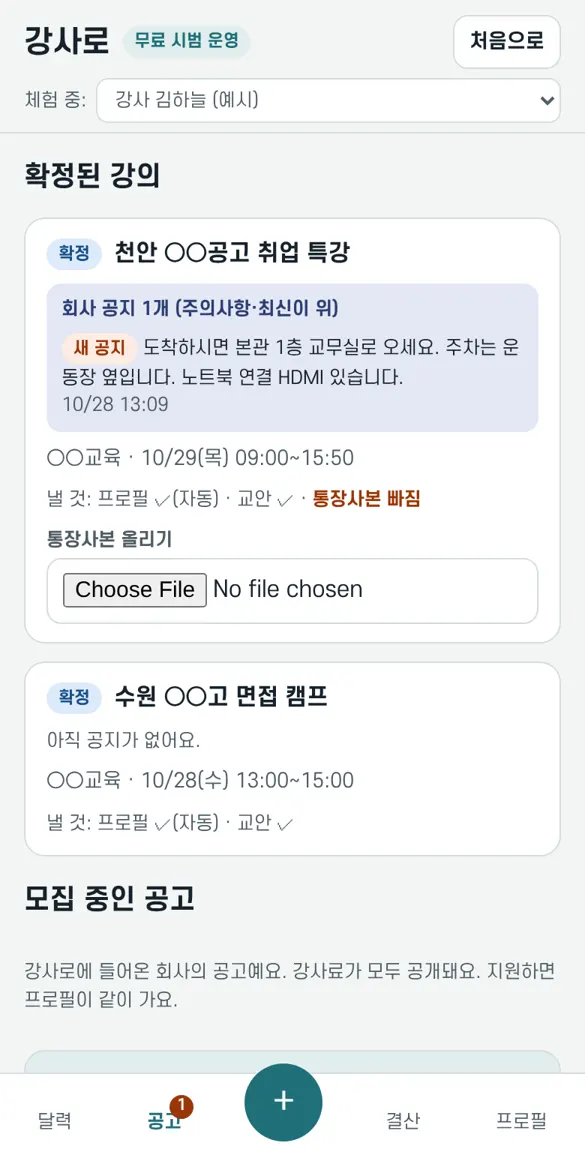
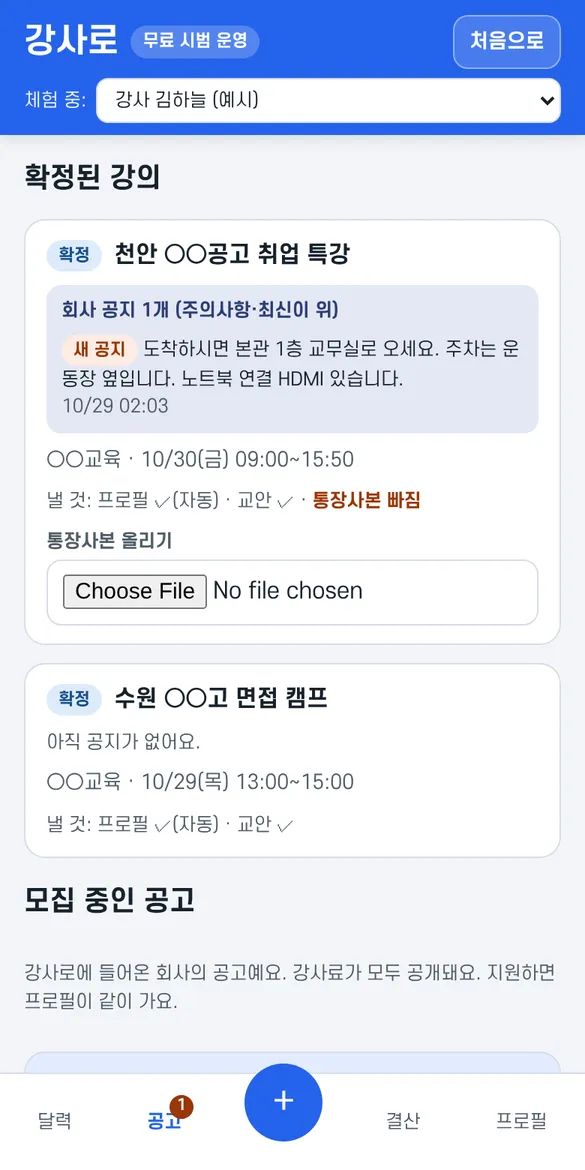
강사로: 대표색 파랑, 머리 부분 색 채우기, 상세페이지 새 첫 화면 (#88)
* 강사로: 대표색 주황(안), 머리 부분 대표색, 상세페이지 히어로·실제 화면·하단 고정 버튼

Claude-Session: https://claude.ai/code/session_018M85gFWJ3GPBYsgb4KDKGf

* 강사로: 대표색 파랑으로 (앱·상세페이지·설명서·아이콘·공유 이미지), 설명서 그림 새로 찍기

Claude-Session: https://claude.ai/code/session_018M85gFWJ3GPBYsgb4KDKGf

* 강사로: 실제 앱 다시 생성

Claude-Session: https://claude.ai/code/session_018M85gFWJ3GPBYsgb4KDKGf

---------

diff --git a/kangsaro/index.html b/kangsaro/index.html
@@ -17,8 +17,8 @@
 <style>
 /* 레이아웃: 강사 쪽(청록)과 회사 쪽(남색) 두 줄기가 '다리' 하나로 만나는 세로 흐름. 불편 → 해결 → 기능 → 반박 순서 */
 :root{
-  --bg:#F4F6F5; --surface:#FFFFFF; --fg:#15222A; --muted:#4D5B63; --line:#D6DEDC;
-  --teal:#1F6F78; --teal-soft:#E0EEEE; --navy:#2D3E73; --navy-soft:#E3E7F4;
+  --bg:#F3F5F9; --surface:#FFFFFF; --fg:#15222A; --muted:#4D5B63; --line:#D6DEDC;
+  --teal:#2563EB; --teal-soft:#E3ECFF; --hero:#2563EB; --hero2:#1E40AF; --navy:#2D3E73; --navy-soft:#E3E7F4;
   --gray-chip:#E3E7E9; --gray-fg:#3B4650; --blue-chip:#DCEBFA; --blue-fg:#1A4F8A;
   --purple-chip:#ECE2F7; --purple-fg:#5B3A8C; --green-chip:#DDF1E4; --green-fg:#1E6B3A;
   --warn:#9A3608; --warn-soft:#FDECE3;
@@ -27,17 +27,17 @@
 }
 @media (prefers-color-scheme: dark){:root:not([data-theme="light"]){
   --bg:#0F1719; --surface:#172225; --fg:#E7EEEE; --muted:#A3B2B5; --line:#2C3A3E;
-  --teal:#5FB7BF; --teal-soft:#183338; --navy:#9DAEE6; --navy-soft:#1E2640;
+  --teal:#6B9BFF; --teal-soft:#1A2747; --hero:#1D4ED8; --hero2:#1E3A8A; --navy:#9DAEE6; --navy-soft:#1E2640;
   --gray-chip:#2A3337; --gray-fg:#C9D2D6; --blue-chip:#1B2F47; --blue-fg:#9CC6F2;
   --purple-chip:#2E2540; --purple-fg:#CDB5EE; --green-chip:#173426; --green-fg:#94D9AE;
   --warn:#F2A57E; --warn-soft:#3A2116; color-scheme:dark}}
 :root[data-theme="dark"]{
   --bg:#0F1719; --surface:#172225; --fg:#E7EEEE; --muted:#A3B2B5; --line:#2C3A3E;
-  --teal:#5FB7BF; --teal-soft:#183338; --navy:#9DAEE6; --navy-soft:#1E2640;
+  --teal:#6B9BFF; --teal-soft:#1A2747; --hero:#1D4ED8; --hero2:#1E3A8A; --navy:#9DAEE6; --navy-soft:#1E2640;
   --gray-chip:#2A3337; --gray-fg:#C9D2D6; --blue-chip:#1B2F47; --blue-fg:#9CC6F2;
   --purple-chip:#2E2540; --purple-fg:#CDB5EE; --green-chip:#173426; --green-fg:#94D9AE;
   --warn:#F2A57E; --warn-soft:#3A2116; color-scheme:dark}
-body{background:var(--bg);color:var(--fg);font-family:var(--body);font-size:16px;line-height:1.7}
+body{margin:0;background:var(--bg);color:var(--fg);font-family:var(--body);font-size:16px;line-height:1.7}
 .wrap{max-width:720px;margin:0 auto;padding-left:max(16px,env(safe-area-inset-left,0px));padding-right:max(16px,env(safe-area-inset-right,0px));padding-block:32px 56px;display:flex;flex-direction:column;gap:56px}
 h1,h2,h3{text-wrap:balance;margin:0;word-break:keep-all}
 h1{font-family:var(--display);font-size:clamp(28px,7vw,40px);line-height:1.35}
@@ -50,7 +50,7 @@ section{display:flex;flex-direction:column;gap:18px}
 .lead{font-size:17px;color:var(--muted)}
 .btns{display:flex;flex-wrap:wrap;gap:10px}
 .btn{display:inline-flex;align-items:center;justify-content:center;min-height:52px;padding:0 22px;border-radius:14px;font-weight:700;font-size:16px;text-decoration:none;font-family:inherit;cursor:pointer}
-.btn.primary{background:var(--teal);color:var(--bg);border:0}
+.btn.primary{background:var(--teal);color:#fff;border:0;box-shadow:0 6px 16px rgba(37,99,235,.25)}
 .btn.ghost{background:transparent;color:var(--fg);border:1.5px solid var(--line)}
 .btn:focus-visible{outline:3px solid var(--navy);outline-offset:2px}
 .note{font-size:13px;color:var(--muted)}
@@ -97,17 +97,53 @@ summary:focus-visible{outline:2px solid var(--teal);outline-offset:2px;border-ra
 .price div{background:var(--surface);border:1px solid var(--line);border-radius:14px;padding:14px;display:flex;flex-direction:column;gap:4px}
 .price strong{font-size:20px;font-variant-numeric:tabular-nums}
 .end{background:var(--surface);border:1px solid var(--line);border-radius:20px;padding:22px 18px;display:flex;flex-direction:column;gap:14px}
+/* 히어로: 대표색으로 꽉 채운 띠 + 실제 앱 화면 */
+.hero{background:linear-gradient(160deg,var(--hero),var(--hero2));color:#fff;padding:36px max(16px,env(safe-area-inset-left,0px)) 0;overflow:hidden}
+.hero .in{max-width:960px;margin:0 auto;display:grid;grid-template-columns:minmax(0,1.1fr) minmax(0,.9fr);gap:28px;align-items:end}
+@media (max-width:760px){.hero .in{grid-template-columns:1fr;gap:20px}}
+.hero .txt{display:flex;flex-direction:column;gap:16px;padding-bottom:36px}
+.hero .eyebrow{color:#DCE7FF}
+.hero h1{color:#fff;font-size:clamp(30px,7.5vw,46px);line-height:1.28}
+.hero h1 em{font-style:normal;background:#fff;color:var(--hero2);padding:0 8px;border-radius:8px;box-decoration-break:clone;-webkit-box-decoration-break:clone}
+.hero .lead{color:#EEF3FF;font-size:18px}
+.hero .btn.primary{background:#fff;color:var(--hero2);box-shadow:0 8px 20px rgba(0,0,0,.18)}
+.hero .btn.ghost{color:#fff;border-color:rgba(255,255,255,.6)}
+.hero .meta{display:flex;flex-wrap:wrap;gap:8px}
+.hero .meta span{font-size:13px;font-weight:700;background:rgba(255,255,255,.16);border:1px solid rgba(255,255,255,.35);padding:4px 12px;border-radius:99px}
+.phone{justify-self:center;width:min(300px,78vw);border-radius:34px 34px 0 0;border:8px solid #1A1A1A;border-bottom:0;background:#1A1A1A;box-shadow:0 20px 50px rgba(0,0,0,.35);overflow:hidden;aspect-ratio:390/600}
+.phone img{width:100%;display:block}
+.shot{border-radius:20px;border:1px solid var(--line);box-shadow:0 10px 28px rgba(0,0,0,.10);overflow:hidden;max-width:360px;width:100%;align-self:center;background:var(--surface)}
+.shot img{width:100%;display:block}
+.sticky{position:fixed;left:0;right:0;bottom:0;z-index:9;padding:10px max(16px,env(safe-area-inset-left,0px)) calc(10px + env(safe-area-inset-bottom,0px));background:color-mix(in srgb,var(--bg) 92%,transparent);backdrop-filter:blur(8px);border-top:1px solid var(--line);display:none}
+.sticky a{width:100%}
+@media (max-width:760px){.sticky{display:flex}body{padding-bottom:84px}}
+h2 .hl{color:var(--teal)}
 </style>
 
 </head>
 <body>
+<header class="hero">
+  <div class="in">
+    <div class="txt">
+      <span class="eyebrow">강사와 강의 업체를 잇는 앱 · 강사로</span>
+      <h1>강의 일정·강사료,<br>아직도 <em>카톡으로</em><br>확인하세요?</h1>
+      <p class="lead">공고 붙여 넣으면 달력에 쏙, 순수익과 미입금이 한눈에. 업체는 강사 확정·공지·서류·강사비까지 한 화면에서 끝나요.</p>
+      <div class="btns">
+        <a class="btn primary" href="app/">무료로 시작하기</a>
+        <a class="btn ghost" href="try/?as=inst">가입 없이 체험</a>
+      </div>
+      <div class="meta"><span>가입 1분</span><span>카드 등록 없음</span><span>지금 무료</span></div>
+    </div>
+    <div class="phone"><img src="shots/hero_cal.webp" alt="강사로 앱 달력 화면: 확정·미입금·입금 완료가 색으로 보임" width="390" height="780"></div>
+  </div>
+</header>
 <div class="wrap">
 
-  <!-- 히어로 -->
+  <!-- 강사 -->
   <section>
-    <span class="eyebrow t">강사와 강의 업체를 잇는 앱 · 강사로</span>
-    <h1>공고 찾고, 프로필 고치고, 강사료 기다리는 일. 이제 한곳에서 끝내세요.</h1>
-    <p class="lead">현장에서 강의하는 강사가 직접 겪은 불편에서 시작했습니다. 강사는 일정과 돈이 한눈에 보이고, 업체는 놓치는 일이 사라집니다.</p>
+    <span class="eyebrow t">강사님이라면</span>
+    <h2>강사님, <span class="hl">이런 불편</span> 있으셨죠?</h2>
+    <p class="lead">강사로 하나로 한 번에 해결됩니다.</p>
     <div class="card" aria-label="강의 카드 예시">
       <div class="chips"><span class="chip c-gray">지원</span><span class="chip c-blue">확정</span><span class="chip c-purple">미입금</span><span class="chip c-green">입금 완료</span></div>
       <h3>10월 28일 (수) 천안 ○○공고 취업 특강 <span class="chip c-blue">확정</span></h3>
@@ -119,18 +155,7 @@ summary:focus-visible{outline:2px solid var(--teal);outline-offset:2px;border-ra
       </div>
       <p class="note">예시 화면이에요. 실제 강의가 아닙니다.</p>
     </div>
-    <div class="btns">
-      <a class="btn primary" href="try/?as=inst">강사로 체험하기</a>
-      <a class="btn primary" href="try/?as=co" style="background:var(--navy)">업체로 체험하기</a>
-      <a class="btn ghost" href="app/">가입하고 바로 쓰기</a>
-    </div>
-  </section>
-
-  <!-- 강사 -->
-  <section>
-    <span class="eyebrow t">강사님이라면</span>
-    <h2>강사님, 이런 불편 있으셨죠?</h2>
-    <p class="lead">강사로 하나로 한 번에 해결됩니다.</p>
+    <div class="shot"><img src="shots/inst_jobs.webp" alt="공고마다 예상 순수익과 원클릭 지원 버튼" loading="lazy" width="390" height="780"></div>
     <ul class="pair">
       <li><b>단톡방 공고를 하나하나 읽고 달력에 옮겨 적기</b><span>공고를 붙여 넣으면 날짜·요일·시간·장소·강사료·업체를 앱이 읽어 내 달력에 바로 넣어요. 실제 강사 톡방 공고로 시험해 보니 강사료는 96%를 자동으로 읽었어요.</span></li>
       <li><b>공고 볼 때마다 지원 메일 새로 쓰기</b><span>앱 공고는 버튼 한 번에 프로필이 같이 가요. 톡방 공고는 받는 사람·제목·본문이 채워진 Gmail이 열려요.</span></li>
@@ -150,8 +175,9 @@ summary:focus-visible{outline:2px solid var(--teal);outline-offset:2px;border-ra
   <!-- 회사 -->
   <section>
     <span class="eyebrow n">강의 업체라면</span>
-    <h2>업체 대표님, 이런 실수할까 봐 걱정되셨죠?</h2>
+    <h2>업체 대표님, <span class="n">이런 실수</span> 할까 봐 걱정되셨죠?</h2>
     <p class="lead">강사로 하나로 한 번에 해결됩니다.</p>
+    <div class="shot"><img src="shots/co_board.webp" alt="업체 강의 운영판: 오늘·내일 강의 현황" loading="lazy" width="390" height="780"></div>
     <ul class="pair n">
       <li><b>공고를 올려도 강사들이 제대로 봤을까</b><span>날짜를 달력에서 고르면 요일이 자동으로 붙고, 빈칸이 있으면 등록되지 않아요. 올린 공고는 강사 공고 목록에 바로 떠요.</span></li>
       <li><b>지원자가 카톡·메일·문자로 흩어짐</b><span>내 강의마다 지원자가 사진·인증 이력과 함께 모여요. 프로필은 한 명씩 또는 한 번에 PDF로 받아요.</span></li>
@@ -199,6 +225,7 @@ summary:focus-visible{outline:2px solid var(--teal);outline-offset:2px;border-ra
   </section>
 
 </div>
+<div class="sticky"><a class="btn primary" href="app/">무료로 시작하기 · 가입 1분</a></div>
 
 </body>
 </html>

diff --git a/kangsaro/app/index.html b/kangsaro/app/index.html
@@ -4,25 +4,28 @@
 <meta charset="utf-8">
 <meta name="viewport" content="width=device-width,initial-scale=1,viewport-fit=cover">
 <meta name="robots" content="noindex">
-<meta name="build" content="261029-0140">
+<meta name="build" content="261029-0204">
 <title>강사로</title>
 <link rel="manifest" href="manifest.webmanifest">
-<meta name="theme-color" content="#1F6F78">
+<meta name="theme-color" content="#2563EB">
 <link rel="apple-touch-icon" href="../try/icons/apple-touch-icon.png">
 <meta name="apple-mobile-web-app-capable" content="yes">
 <meta name="apple-mobile-web-app-title" content="강사로">
 <link rel="stylesheet" href="../fonts/font.css">
 <style>
-:root{--bg:#F3F5F4;--sf:#FFFFFF;--fg:#16222B;--mu:#4F5D66;--ln:#D5DDDC;--ac:#1F6F78;--acs:#E1EEEE;--nv:#2D3E73;--nvs:#E3E7F4;
+:root{--bg:#F3F5F9;--sf:#FFFFFF;--fg:#16222B;--mu:#4F5D66;--ln:#D7DDE6;--ac:#2563EB;--acs:#E3ECFF;--hd:#2563EB;--nv:#2D3E73;--nvs:#E3E7F4;
 --g1:#E3E7E9;--g2:#3B4650;--b1:#DCEBFA;--b2:#1A4F8A;--p1:#ECE2F7;--p2:#5B3A8C;--k1:#DDF1E4;--k2:#1E6B3A;--r1:#FDECE3;--r2:#9A3608;--sun:#B3261E;
 font-family:'S-Core Dream','Apple SD Gothic Neo','Malgun Gothic',sans-serif}
-@media (prefers-color-scheme:dark){:root{--bg:#0B1113;--sf:#1D2A2E;--fg:#E7EEEE;--mu:#A3B2B5;--ln:#33464B;--ac:#5FB7BF;--acs:#183338;--nv:#9DAEE6;--nvs:#1E2640;
+@media (prefers-color-scheme:dark){:root{--bg:#0B1113;--sf:#1D2A2E;--fg:#E7EEEE;--mu:#A3B2B5;--ln:#33464B;--ac:#6B9BFF;--acs:#1A2747;--hd:#1D4ED8;--nv:#9DAEE6;--nvs:#1E2640;
 --g1:#2A3337;--g2:#C9D2D6;--b1:#1B2F47;--b2:#9CC6F2;--p1:#2E2540;--p2:#CDB5EE;--k1:#173426;--k2:#94D9AE;--r1:#3A2116;--r2:#F2A57E;--sun:#F28B82;color-scheme:dark}}
 *{box-sizing:border-box}
 body{margin:0;background:var(--bg);color:var(--fg);font-size:15px;line-height:1.55}
 button,input,select,textarea{font:inherit;color:inherit}
 .app{max-width:560px;margin:0 auto;min-height:100vh;display:flex;flex-direction:column;padding-bottom:84px}
-header{position:sticky;top:0;z-index:5;background:var(--bg);padding:10px 16px 6px;display:flex;flex-direction:column;gap:6px;border-bottom:1px solid var(--ln)}
+header{position:sticky;top:0;z-index:5;background:var(--hd);color:#fff;padding:10px 16px 8px;display:flex;flex-direction:column;gap:6px;box-shadow:0 2px 10px rgba(0,0,0,.12)}
+/* 머리 부분은 대표색으로 꽉 채움 */
+header .brand b{color:#fff;font-size:22px}header .beta{background:rgba(255,255,255,.22);color:#fff}header .who{color:rgba(255,255,255,.9)}header select{color:var(--fg)}
+header .btn{background:rgba(255,255,255,.16);border-color:rgba(255,255,255,.4);color:#fff}header .btn.pri{background:#fff;border-color:#fff;color:var(--hd)}header .btn:focus-visible{outline-color:#fff}header a.btn{color:#fff!important}header .alert{color:var(--fg)}header .alert .btn{background:var(--sf);border-color:var(--ln);color:var(--fg)}header .alert .btn.pri{background:var(--ac);color:#fff}
 .brand{display:flex;align-items:center;gap:8px;justify-content:space-between}
 .brand b{font-size:20px}.beta{font-size:11px;font-weight:700;background:var(--acs);color:var(--ac);padding:2px 8px;border-radius:99px}
 .pic{width:56px;height:56px;border-radius:50%;object-fit:cover;flex:none;background:var(--acs);color:var(--ac);display:inline-grid;place-items:center;font-weight:700;font-size:20px}.pic.s{width:36px;height:36px;font-size:14px}
@@ -320,8 +323,8 @@ function pdfPage(p,cf){const V=verified(p.id),cr=String(p.career||'').split('\n'
   <p class="ft">강사로에서 받은 프로필 · ${todayIso().replace(/-/g,'.')}</p></section>`}
 function printPdf(title,pages){const html=`<!doctype html><html lang="ko"><head><meta charset="utf-8"><title>${esc(title)}</title><link rel="stylesheet" href="${new URL('../fonts/font.css',location.href).href}"><style>
   body{font-family:'S-Core Dream','Pretendard','Noto Sans KR',system-ui,sans-serif;color:#1d2329;margin:0}section{padding:28px 32px;page-break-after:always}section:last-child{page-break-after:auto}
-  .hd{display:flex;justify-content:space-between;font-size:12px;color:#5b6670;border-bottom:2px solid #1f6f78;padding-bottom:6px;margin-bottom:18px}.top{display:flex;gap:18px;align-items:center}
-  img{width:110px;height:110px;border-radius:50%;object-fit:cover}h1{font-size:26px;margin:0 0 6px}h2{font-size:16px;margin:22px 0 4px;color:#1f6f78}p{margin:4px 0;font-size:14px;line-height:1.6}
+  .hd{display:flex;justify-content:space-between;font-size:12px;color:#5b6670;border-bottom:2px solid #2563EB;padding-bottom:6px;margin-bottom:18px}.top{display:flex;gap:18px;align-items:center}
+  img{width:110px;height:110px;border-radius:50%;object-fit:cover}h1{font-size:26px;margin:0 0 6px}h2{font-size:16px;margin:22px 0 4px;color:#2563EB}p{margin:4px 0;font-size:14px;line-height:1.6}
   .intro{margin-top:14px}.mu{color:#5b6670;font-size:12px}ul{margin:6px 0;padding-left:18px;font-size:14px;line-height:1.7}.ft{margin-top:28px;font-size:11px;color:#8a949c}
   @page{size:A4;margin:12mm}</style></head><body>${pages.join('')}</body></html>`;
   const w=window.open('','_blank');if(w){w.document.write(html);w.document.close();w.onload=()=>w.print();setTimeout(()=>{try{w.print()}catch(e){}},600);return toast("인쇄 창에서 'PDF로 저장'을 고르세요")}
@@ -825,6 +828,6 @@ document.addEventListener('paste',ev=>{if(ev.target.id==='pRaw')setTimeout(()=>{
 document.addEventListener('input',ev=>{if(['pDates','pRaw'].includes(ev.target.id))pWarn()});
 render();
 </script>
-<script type="module" src="real.js?v=261029-0140"></script>
+<script type="module" src="real.js?v=261029-0204"></script>
 </body>
 </html>

diff --git a/kangsaro/try/index.html b/kangsaro/try/index.html
@@ -7,22 +7,25 @@
 <meta name="build" content="261028-2">
 <title>강사로 (시범 운영)</title>
 <link rel="manifest" href="manifest.webmanifest">
-<meta name="theme-color" content="#1F6F78">
+<meta name="theme-color" content="#2563EB">
 <link rel="apple-touch-icon" href="icons/apple-touch-icon.png">
 <meta name="apple-mobile-web-app-capable" content="yes">
 <meta name="apple-mobile-web-app-title" content="강사로">
 <link rel="stylesheet" href="../fonts/font.css">
 <style>
-:root{--bg:#F3F5F4;--sf:#FFFFFF;--fg:#16222B;--mu:#4F5D66;--ln:#D5DDDC;--ac:#1F6F78;--acs:#E1EEEE;--nv:#2D3E73;--nvs:#E3E7F4;
+:root{--bg:#F3F5F9;--sf:#FFFFFF;--fg:#16222B;--mu:#4F5D66;--ln:#D7DDE6;--ac:#2563EB;--acs:#E3ECFF;--hd:#2563EB;--nv:#2D3E73;--nvs:#E3E7F4;
 --g1:#E3E7E9;--g2:#3B4650;--b1:#DCEBFA;--b2:#1A4F8A;--p1:#ECE2F7;--p2:#5B3A8C;--k1:#DDF1E4;--k2:#1E6B3A;--r1:#FDECE3;--r2:#9A3608;--sun:#B3261E;
 font-family:'S-Core Dream','Apple SD Gothic Neo','Malgun Gothic',sans-serif}
-@media (prefers-color-scheme:dark){:root{--bg:#0B1113;--sf:#1D2A2E;--fg:#E7EEEE;--mu:#A3B2B5;--ln:#33464B;--ac:#5FB7BF;--acs:#183338;--nv:#9DAEE6;--nvs:#1E2640;
+@media (prefers-color-scheme:dark){:root{--bg:#0B1113;--sf:#1D2A2E;--fg:#E7EEEE;--mu:#A3B2B5;--ln:#33464B;--ac:#6B9BFF;--acs:#1A2747;--hd:#1D4ED8;--nv:#9DAEE6;--nvs:#1E2640;
 --g1:#2A3337;--g2:#C9D2D6;--b1:#1B2F47;--b2:#9CC6F2;--p1:#2E2540;--p2:#CDB5EE;--k1:#173426;--k2:#94D9AE;--r1:#3A2116;--r2:#F2A57E;--sun:#F28B82;color-scheme:dark}}
 *{box-sizing:border-box}
 body{margin:0;background:var(--bg);color:var(--fg);font-size:15px;line-height:1.55}
 button,input,select,textarea{font:inherit;color:inherit}
 .app{max-width:560px;margin:0 auto;min-height:100vh;display:flex;flex-direction:column;padding-bottom:84px}
-header{position:sticky;top:0;z-index:5;background:var(--bg);padding:10px 16px 6px;display:flex;flex-direction:column;gap:6px;border-bottom:1px solid var(--ln)}
+header{position:sticky;top:0;z-index:5;background:var(--hd);color:#fff;padding:10px 16px 8px;display:flex;flex-direction:column;gap:6px;box-shadow:0 2px 10px rgba(0,0,0,.12)}
+/* 머리 부분은 대표색으로 꽉 채움 */
+header .brand b{color:#fff;font-size:22px}header .beta{background:rgba(255,255,255,.22);color:#fff}header .who{color:rgba(255,255,255,.9)}header select{color:var(--fg)}
+header .btn{background:rgba(255,255,255,.16);border-color:rgba(255,255,255,.4);color:#fff}header .btn.pri{background:#fff;border-color:#fff;color:var(--hd)}header .btn:focus-visible{outline-color:#fff}header a.btn{color:#fff!important}header .alert{color:var(--fg)}header .alert .btn{background:var(--sf);border-color:var(--ln);color:var(--fg)}header .alert .btn.pri{background:var(--ac);color:#fff}
 .brand{display:flex;align-items:center;gap:8px;justify-content:space-between}
 .brand b{font-size:20px}.beta{font-size:11px;font-weight:700;background:var(--acs);color:var(--ac);padding:2px 8px;border-radius:99px}
 .pic{width:56px;height:56px;border-radius:50%;object-fit:cover;flex:none;background:var(--acs);color:var(--ac);display:inline-grid;place-items:center;font-weight:700;font-size:20px}.pic.s{width:36px;height:36px;font-size:14px}
@@ -320,8 +323,8 @@ function pdfPage(p,cf){const V=verified(p.id),cr=String(p.career||'').split('\n'
   <p class="ft">강사로에서 받은 프로필 · ${todayIso().replace(/-/g,'.')}</p></section>`}
 function printPdf(title,pages){const html=`<!doctype html><html lang="ko"><head><meta charset="utf-8"><title>${esc(title)}</title><link rel="stylesheet" href="${new URL('../fonts/font.css',location.href).href}"><style>
   body{font-family:'S-Core Dream','Pretendard','Noto Sans KR',system-ui,sans-serif;color:#1d2329;margin:0}section{padding:28px 32px;page-break-after:always}section:last-child{page-break-after:auto}
-  .hd{display:flex;justify-content:space-between;font-size:12px;color:#5b6670;border-bottom:2px solid #1f6f78;padding-bottom:6px;margin-bottom:18px}.top{display:flex;gap:18px;align-items:center}
-  img{width:110px;height:110px;border-radius:50%;object-fit:cover}h1{font-size:26px;margin:0 0 6px}h2{font-size:16px;margin:22px 0 4px;color:#1f6f78}p{margin:4px 0;font-size:14px;line-height:1.6}
+  .hd{display:flex;justify-content:space-between;font-size:12px;color:#5b6670;border-bottom:2px solid #2563EB;padding-bottom:6px;margin-bottom:18px}.top{display:flex;gap:18px;align-items:center}
+  img{width:110px;height:110px;border-radius:50%;object-fit:cover}h1{font-size:26px;margin:0 0 6px}h2{font-size:16px;margin:22px 0 4px;color:#2563EB}p{margin:4px 0;font-size:14px;line-height:1.6}
   .intro{margin-top:14px}.mu{color:#5b6670;font-size:12px}ul{margin:6px 0;padding-left:18px;font-size:14px;line-height:1.7}.ft{margin-top:28px;font-size:11px;color:#8a949c}
   @page{size:A4;margin:12mm}</style></head><body>${pages.join('')}</body></html>`;
   const w=window.open('','_blank');if(w){w.document.write(html);w.document.close();w.onload=()=>w.print();setTimeout(()=>{try{w.print()}catch(e){}},600);return toast("인쇄 창에서 'PDF로 저장'을 고르세요")}

diff --git a/kangsaro/guide/guide.css b/kangsaro/guide/guide.css
@@ -1,5 +1,5 @@
-:root{--bg:#F3F5F4;--sf:#fff;--fg:#16222B;--mu:#4F5D66;--ln:#D5DDDC;--ac:#1F6F78;--acs:#E1EEEE;--nv:#2D3E73;--nvs:#E3E7F4;--warn:#9A3608;--warns:#FDECE3}
-@media (prefers-color-scheme:dark){:root{--bg:#0F1719;--sf:#172225;--fg:#E7EEEE;--mu:#A3B2B5;--ln:#2C3A3E;--ac:#5FB7BF;--acs:#183338;--nv:#9DAEE6;--nvs:#1E2640;--warn:#F2A57E;--warns:#3A2116;color-scheme:dark}}
+:root{--bg:#F3F5F4;--sf:#fff;--fg:#16222B;--mu:#4F5D66;--ln:#D5DDDC;--ac:#2563EB;--acs:#E3ECFF;--nv:#2D3E73;--nvs:#E3E7F4;--warn:#9A3608;--warns:#FDECE3}
+@media (prefers-color-scheme:dark){:root{--bg:#0F1719;--sf:#172225;--fg:#E7EEEE;--mu:#A3B2B5;--ln:#2C3A3E;--ac:#6B9BFF;--acs:#1A2747;--nv:#9DAEE6;--nvs:#1E2640;--warn:#F2A57E;--warns:#3A2116;color-scheme:dark}}
 *{box-sizing:border-box}
 body{margin:0;background:var(--bg);color:var(--fg);font-family:'S-Core Dream','Apple SD Gothic Neo','Malgun Gothic',sans-serif;font-size:16px;line-height:1.75;word-break:keep-all}
 main{max-width:720px;margin:0 auto;padding:24px 16px 64px}

diff --git a/kangsaro/privacy.html b/kangsaro/privacy.html
@@ -6,8 +6,8 @@
 <title>강사로 개인정보 처리방침</title>
 <link rel="stylesheet" href="fonts/font.css">
 <style>
-:root{--bg:#F3F5F4;--fg:#16222B;--mu:#4F5D66;--ac:#1F6F78;--ln:#D5DDDC}
-@media (prefers-color-scheme:dark){:root{--bg:#0F1719;--fg:#E7EEEE;--mu:#A3B2B5;--ac:#5FB7BF;--ln:#2C3A3E}}
+:root{--bg:#F3F5F4;--fg:#16222B;--mu:#4F5D66;--ac:#2563EB;--ln:#D5DDDC}
+@media (prefers-color-scheme:dark){:root{--bg:#0F1719;--fg:#E7EEEE;--mu:#A3B2B5;--ac:#6B9BFF;--ln:#2C3A3E}}
 body{background:var(--bg);color:var(--fg);font-family:'S-Core Dream','Apple SD Gothic Neo','Malgun Gothic',system-ui,sans-serif;line-height:1.7;margin:0}
 main{max-width:720px;margin:0 auto;padding:24px 16px 60px}
 h1{font-size:24px}h2{font-size:17px;margin-top:28px;color:var(--ac)}
